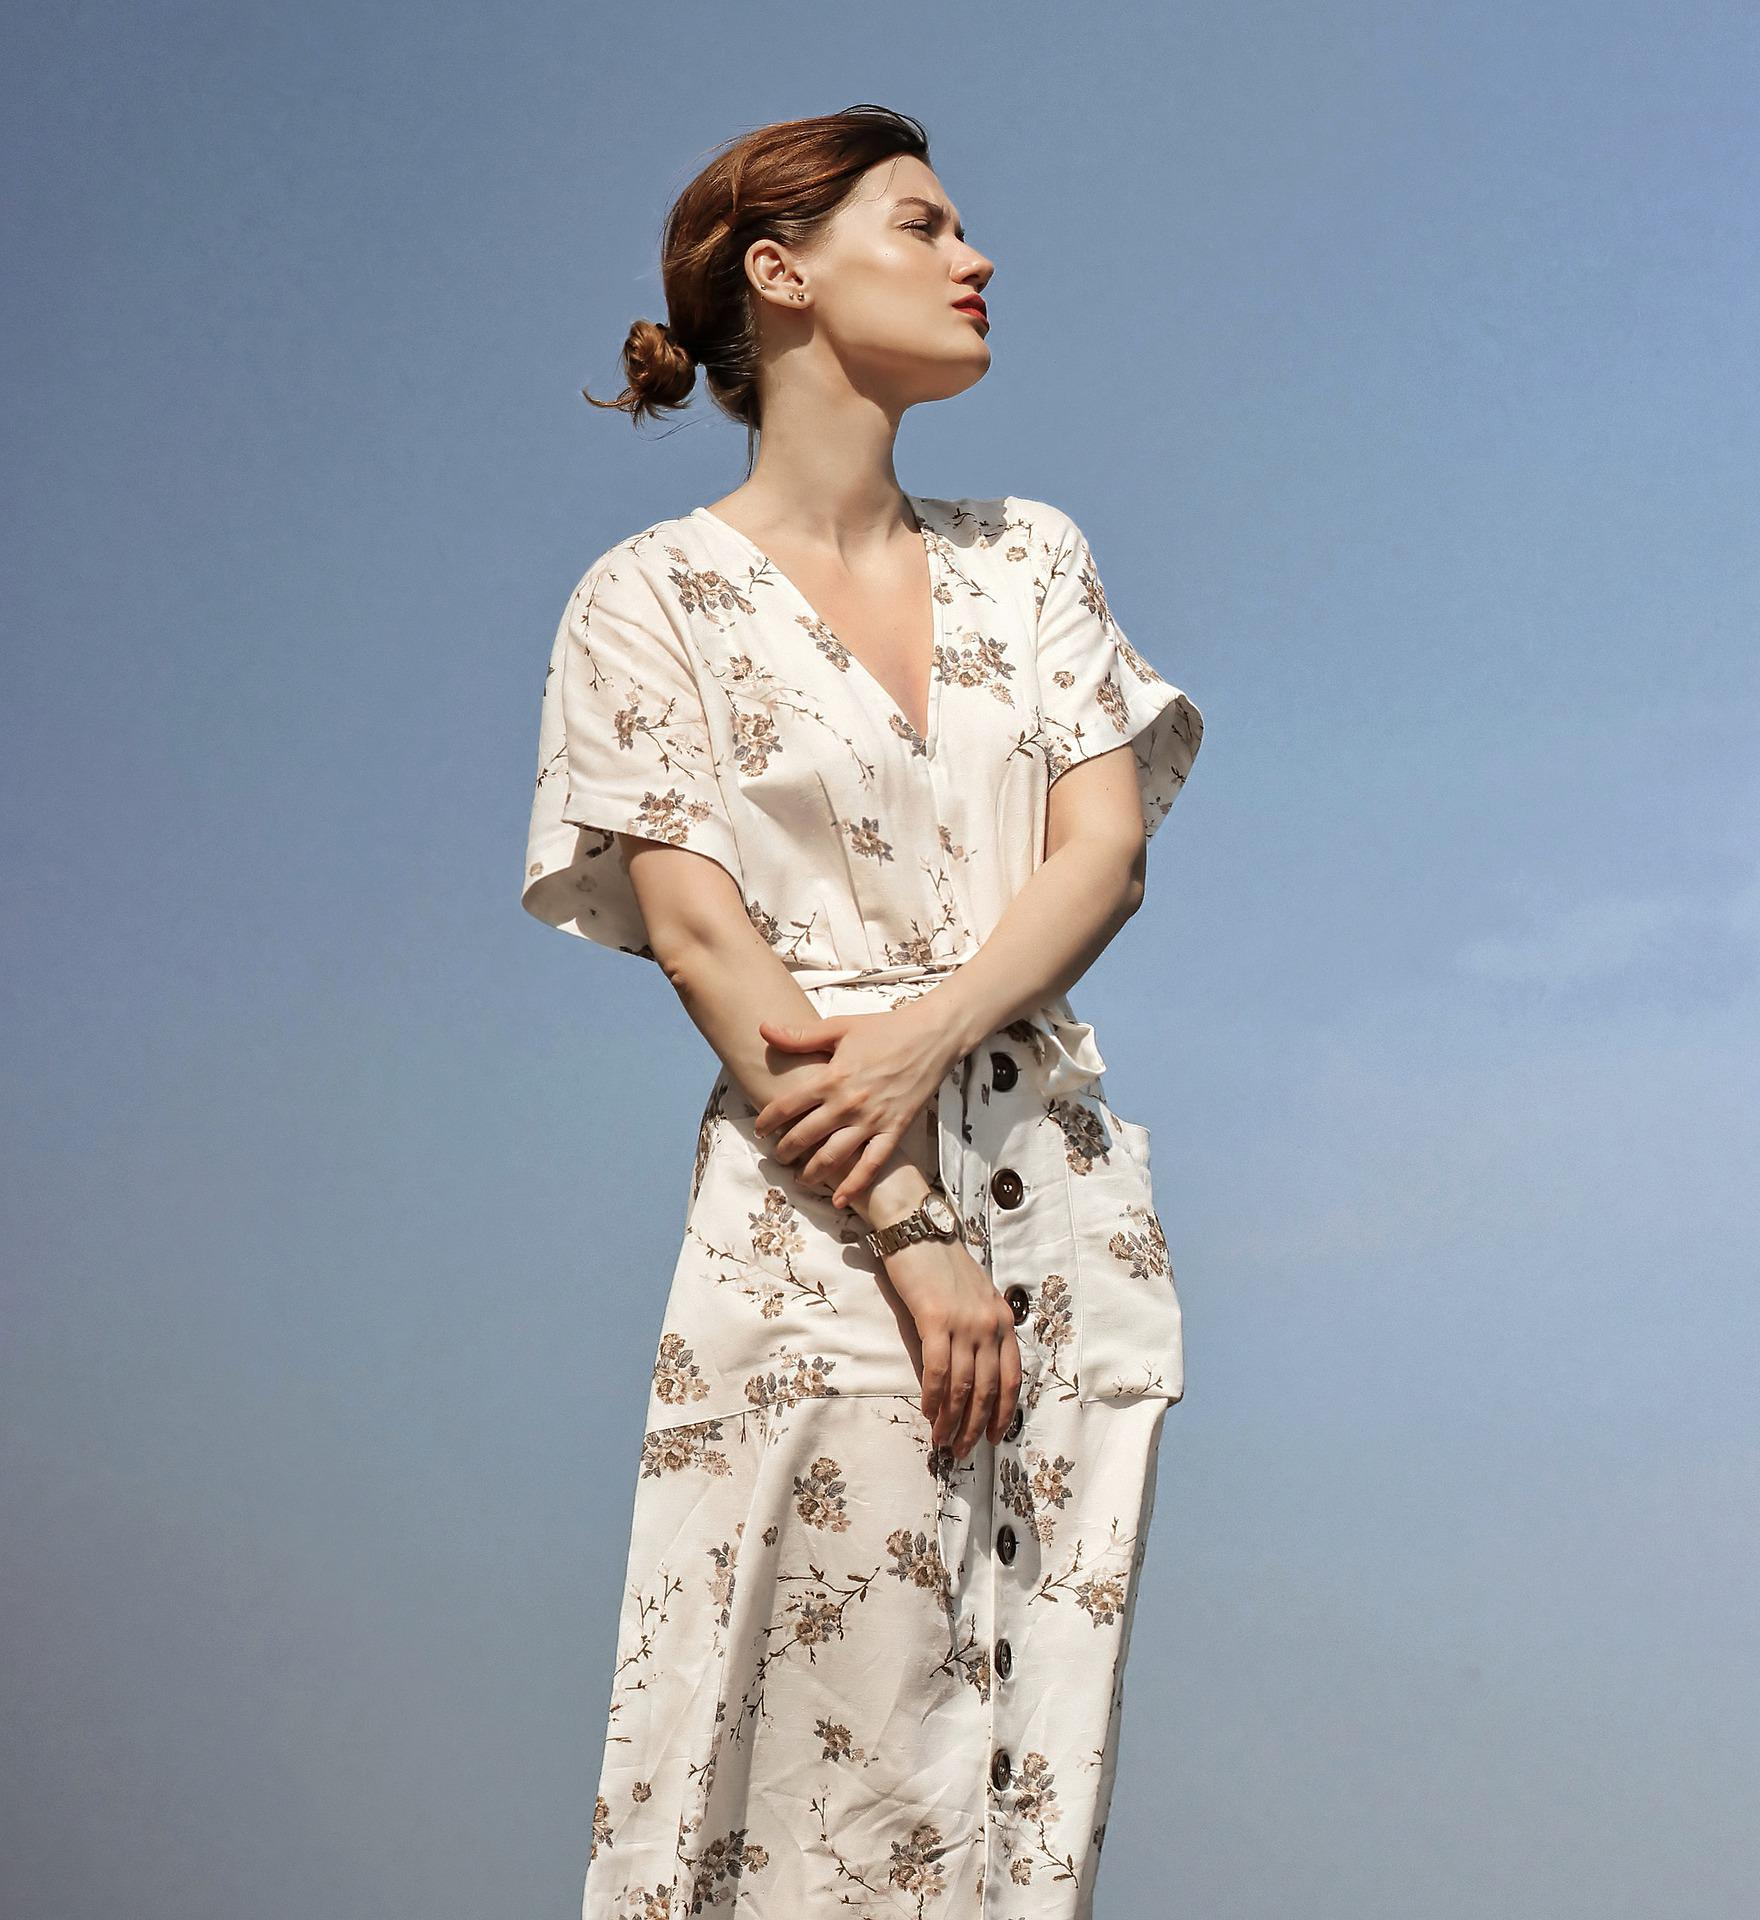
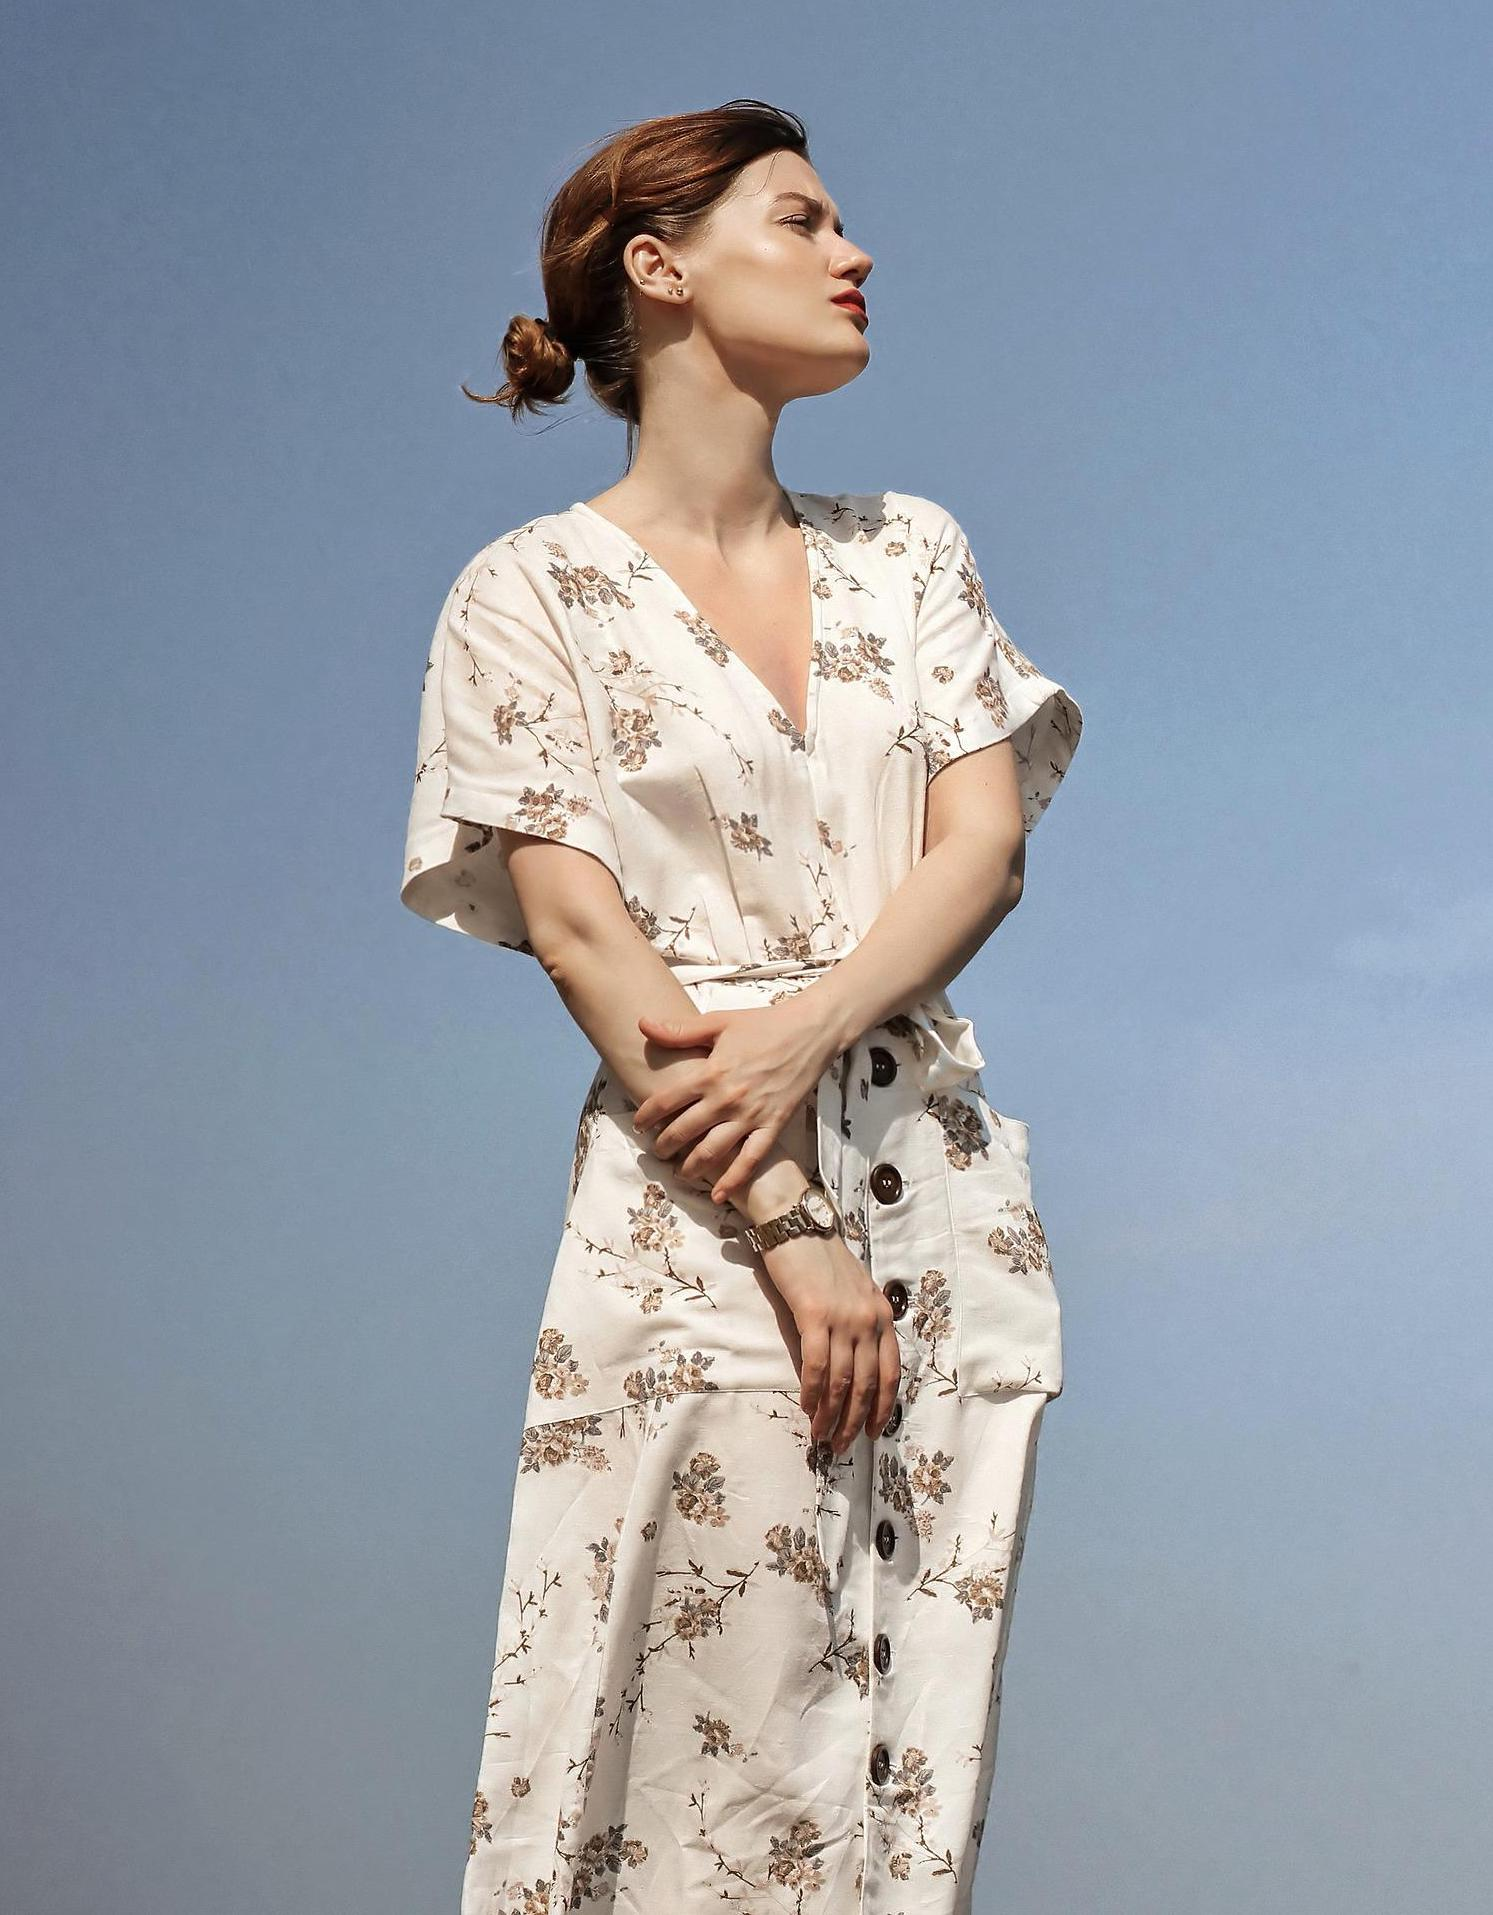
Add files via upload

Changed region(s): [[0.2465, 0.0308, 0.7395, 1.0]]

diff --git a/css/style.css b/css/style.css
@@ -46,23 +46,12 @@ header{
   border-top: 1px solid #919598;
   border-bottom: 1px solid #919598;
   position: fixed;
+  padding: 0 10px;
   z-index: 5
 }
 
-/* .header-wrapper{
-  width: 100%;
-  margin: 0 auto;
-  height: 68px;
-  background-color: #fff;
-  border-top: 1px solid #919598;
-  border-bottom: 1px solid #919598;
-  position: fixed;
-  z-index: 5;
-} */
-
-
 .header-box{
-  width: 1080px;
+  max-width: 1080px;
   /* height: 68px; */
   margin: 0 auto;
   display: flex;
@@ -106,6 +95,7 @@ header{
 .search-btn{
   display: inline-block;
   width: 63px;
+  height: 30px;
   font-size: 12px;
   background: #919598;
   border-radius: 4px;
@@ -113,6 +103,7 @@ header{
   text-align: center;
   line-height: 30px;
   margin-left: 5px;
+  padding-top: 1px;
 }
 
 .search-container input[type="text"] {
@@ -135,7 +126,12 @@ header{
 } */
 
 .cart{
-  padding: 18px 7px 18px 40px;
+  padding: 14px 0 14px 30px;
+}
+
+.cart img{
+  height: 40px;
+  width: 40px;
 }
 
 /* mainvisual */
@@ -275,14 +271,14 @@ header{
   background-color: #413022;
   border-radius: 4px;
   color: #fff;
-  padding: 4px;
+  padding: 3px;
 }
 
 .restock{
   background-color: #989898;
   border-radius: 4px;
   color: #fff;
-  padding: 4px;
+  padding: 3px;
 }
 
 .item-about {
@@ -349,7 +345,7 @@ header{
   border-top: 2px solid #000;
   border-right: 2px solid #000;
   position: absolute;
-  top: 45%;
+  top: 43%;
   right: 0;
   transform: rotate(45deg);
 }
@@ -401,8 +397,10 @@ footer{
 }
 
 .footer-wrapper{
-  width: 100%;
+  max-width: 1080px;
+  padding: 0 10px;
   margin-bottom: 71px;
+  /* margin: 0 10px 71px 10px; */
   border-top: 1px solid #A6A6A6;
   position: relative;
 }
@@ -503,6 +501,12 @@ footer{
     display: none;
   }
 
+  .header-title{
+    letter-spacing: 0.2em;
+    padding-top: 10px;
+    padding-left: 15px;
+  }
+
   .header-list-sp{
     display: flex;
     justify-content: space-between;
@@ -510,8 +514,16 @@ footer{
   }
 
   .cart{
-    padding: 18px 20px;
+    padding: 15px 10px;
+    height: 60px;
+    width: 60px;
   }
+
+  .cart img{
+    height: 35px;
+    width: 35px;
+  }
+
 
   /* ハンバーガーメニュー */
 

diff --git a/index.html b/index.html
@@ -37,7 +37,7 @@
                   <a class="search-btn" href="">詳細設定</a>
                 </form>
               </li>
-              <li class="cart"><a href="#"><img src="./image/image3.jpg" alt=""></a></li>
+              <li class="cart"><a href="#"><img src="./image/image3.png" alt=""></a></li>
             </ul>
           </nav>
         </div>
@@ -52,11 +52,11 @@
               <span></span>
             </div>
             <div class="mask"></div>
-            <div class="header-title">
+            <div>
               <h1 class="header-title"><a href="index.html">Fashion</a></h1>
             </div>
             <div class="cart">
-              <a href="#"><img src="./image/image3.jpg" alt=""></a>
+              <a href="#"><img src="./image/image3.png" alt=""></a>
             </div>
           </div>
 
@@ -99,7 +99,7 @@
 
   <main class=" content">
     <div class="mainvisual">
-      <img src="./image/image7のコピー2.jpg" alt="">
+      <img src="./image/image7.jpg" alt="">
     </div>
     <nav class="g-nav">
       <ul>
